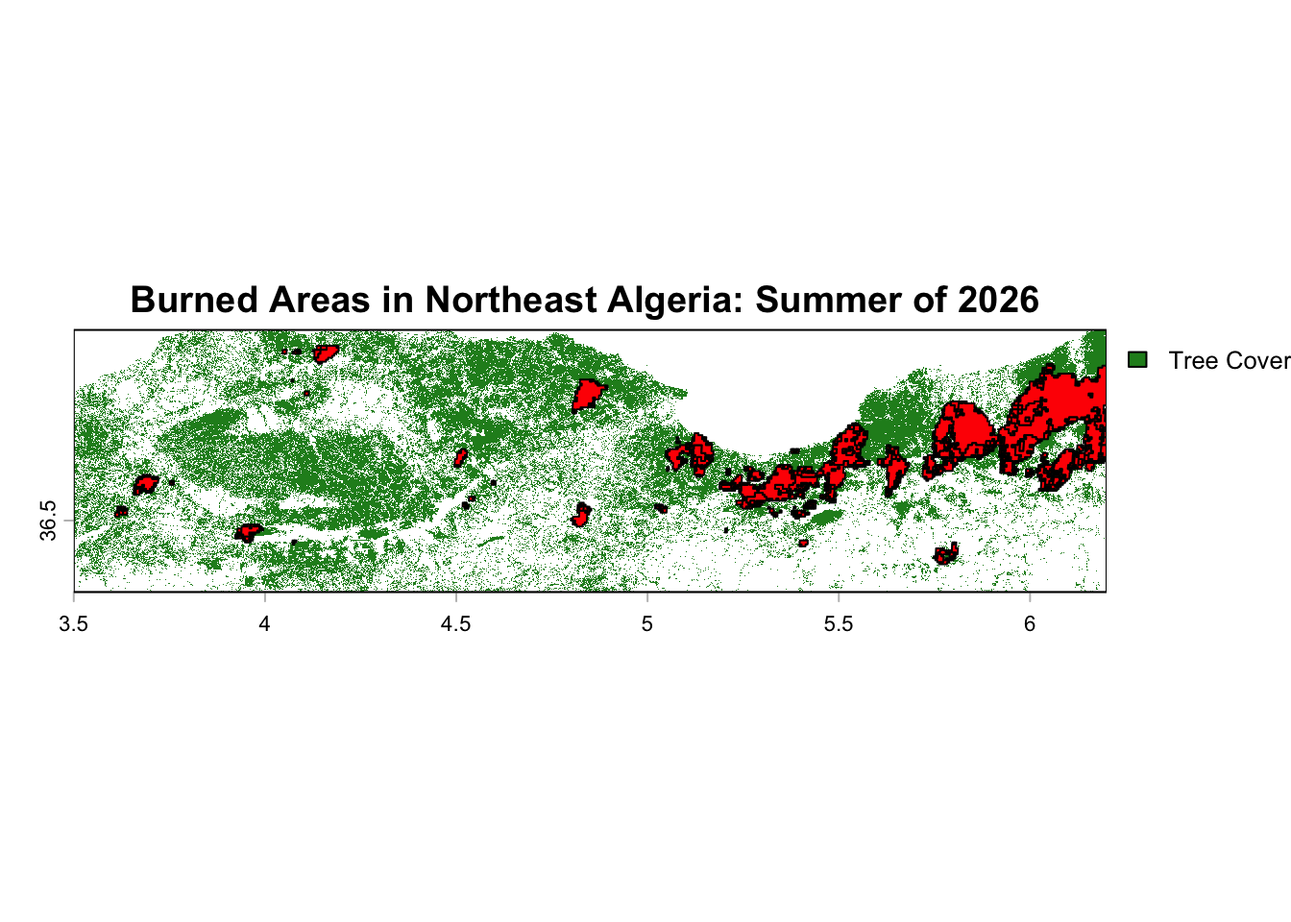
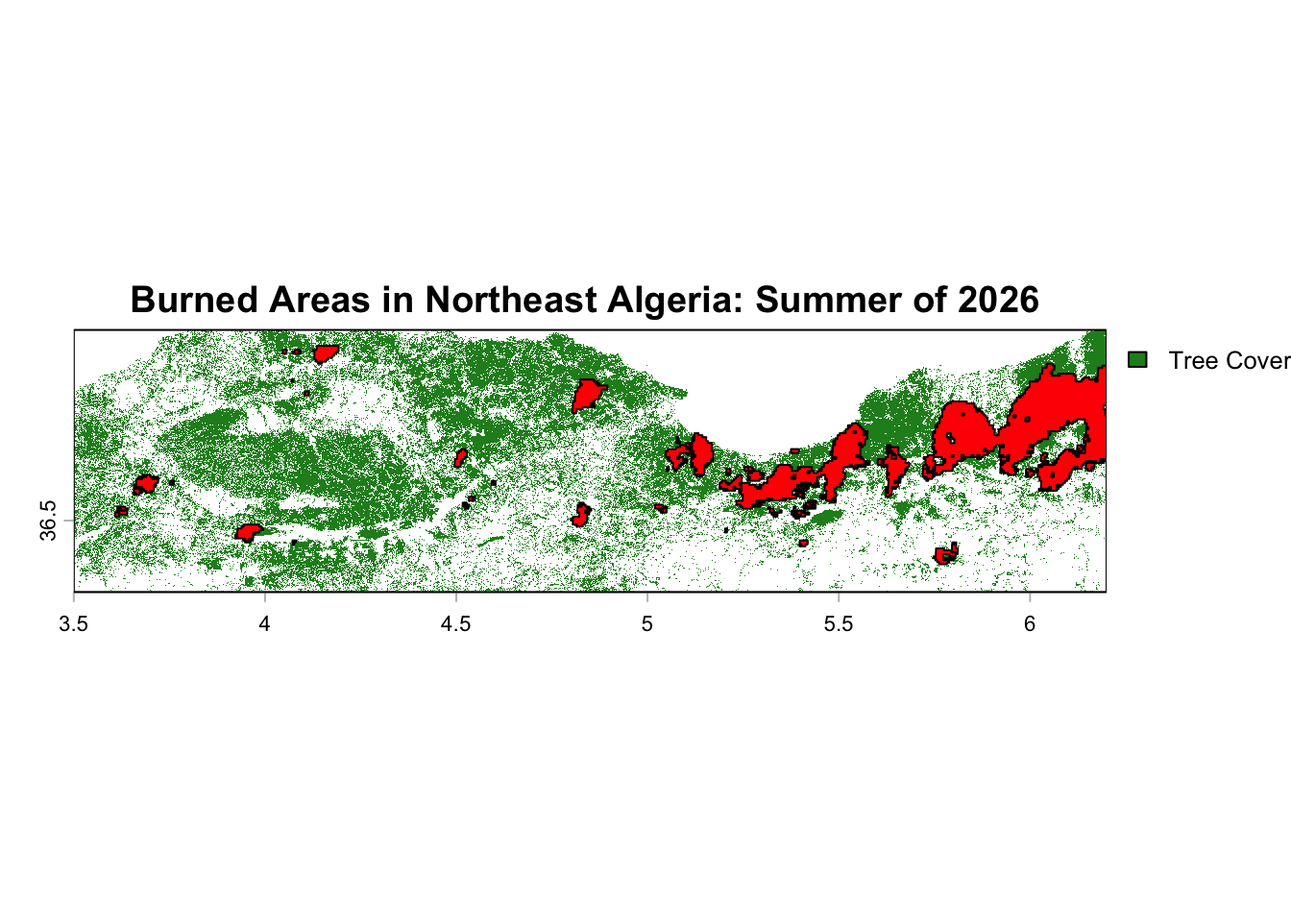
Built site for gh-pages

diff --git a/index.html b/index.html
@@ -305,23 +305,28 @@ pre > code.sourceCode > span > a:first-child::before { text-decoration: underlin
 <summary>Show Code</summary>
 <div class="code-copy-outer-scaffold"><div class="sourceCode cell-code" id="cb4"><pre class="sourceCode r code-with-copy"><code class="sourceCode r"><span id="cb4-1"><a href="#cb4-1" aria-hidden="true" tabindex="-1"></a><span class="co">#4. Download burned area dataset at desired extent </span></span>
 <span id="cb4-2"><a href="#cb4-2" aria-hidden="true" tabindex="-1"></a><span class="co">#The "Burned area" folder contains five files, they will need to be combined into a single sf for ploting. </span></span>
-<span id="cb4-3"><a href="#cb4-3" aria-hidden="true" tabindex="-1"></a>burn_files <span class="ot">&lt;-</span> <span class="fu">list.files</span>(<span class="st">"data/Burned_area"</span>, <span class="at">pattern =</span> <span class="st">"</span><span class="sc">\\</span><span class="st">.hdf$"</span>, <span class="at">full.names =</span> <span class="cn">TRUE</span>) </span>
-<span id="cb4-4"><a href="#cb4-4" aria-hidden="true" tabindex="-1"></a><span class="co"># 4.1 extract unique dates from burn_files ; MODIS date tags begin with A and follow the 4 digit year, 3 day date format ({7}), [0-9] matches any digit from 0 - 9 -&gt; the complete extraction code is thus "A[0-9]{7}"</span></span>
-<span id="cb4-5"><a href="#cb4-5" aria-hidden="true" tabindex="-1"></a>dates <span class="ot">&lt;-</span> <span class="fu">unique</span>(<span class="fu">regmatches</span>(<span class="fu">basename</span>(burn_files), <span class="fu">regexpr</span>(<span class="st">"A[0-9]{7}"</span>, <span class="fu">basename</span>(burn_files))))</span>
-<span id="cb4-6"><a href="#cb4-6" aria-hidden="true" tabindex="-1"></a><span class="co"># 4.2 loop through each file, open subdataset "1" (contains burn data), and store each raster in "burn_rasters" </span></span>
-<span id="cb4-7"><a href="#cb4-7" aria-hidden="true" tabindex="-1"></a>burn_rasters <span class="ot">&lt;-</span> <span class="fu">lapply</span>(burn_files, rast, <span class="at">subds =</span> <span class="dv">1</span>) </span>
-<span id="cb4-8"><a href="#cb4-8" aria-hidden="true" tabindex="-1"></a>burned_total <span class="ot">&lt;-</span> <span class="fu">app</span>(<span class="fu">rast</span>(burn_rasters), <span class="at">fun =</span> max, <span class="at">na.rm =</span> <span class="cn">TRUE</span>) <span class="co"># 4.3 combine layers into one raster </span></span>
-<span id="cb4-9"><a href="#cb4-9" aria-hidden="true" tabindex="-1"></a>burned_total[burned_total <span class="sc">&lt;=</span> <span class="dv">0</span>] <span class="ot">&lt;-</span> <span class="cn">NA</span> <span class="co"># 4.4 turn non-fire pixels into NA values </span></span>
-<span id="cb4-10"><a href="#cb4-10" aria-hidden="true" tabindex="-1"></a>burned_poly <span class="ot">&lt;-</span> <span class="fu">as.polygons</span>(burned_total, <span class="at">dissolve =</span> <span class="cn">TRUE</span>)<span class="co"># 4.7 convert burned_total to a polygon</span></span>
-<span id="cb4-11"><a href="#cb4-11" aria-hidden="true" tabindex="-1"></a>burned_sf <span class="ot">&lt;-</span> <span class="fu">st_as_sf</span>(burned_poly) <span class="sc">|&gt;</span> </span>
-<span id="cb4-12"><a href="#cb4-12" aria-hidden="true" tabindex="-1"></a>  <span class="fu">st_transform</span>(<span class="fu">st_crs</span>(boundbox_poly)) <span class="sc">|&gt;</span></span>
-<span id="cb4-13"><a href="#cb4-13" aria-hidden="true" tabindex="-1"></a>  <span class="fu">st_make_valid</span>() <span class="sc">|&gt;</span> </span>
-<span id="cb4-14"><a href="#cb4-14" aria-hidden="true" tabindex="-1"></a>  <span class="fu">st_intersection</span>(boundbox_poly) <span class="co"># 4.6 convert to sf file and crop to bounding box </span></span>
-<span id="cb4-15"><a href="#cb4-15" aria-hidden="true" tabindex="-1"></a></span>
-<span id="cb4-16"><a href="#cb4-16" aria-hidden="true" tabindex="-1"></a><span class="do">##== 4.7 run a test plot == ## </span></span>
-<span id="cb4-17"><a href="#cb4-17" aria-hidden="true" tabindex="-1"></a></span>
-<span id="cb4-18"><a href="#cb4-18" aria-hidden="true" tabindex="-1"></a><span class="fu">plot</span>(tree_cover, <span class="at">col=</span> <span class="st">"forestgreen"</span>, <span class="at">main =</span> <span class="st">"Burned Areas in Northeast Algeria: Summer of 2026 "</span>)</span>
-<span id="cb4-19"><a href="#cb4-19" aria-hidden="true" tabindex="-1"></a><span class="fu">plot</span>(<span class="fu">st_geometry</span>(burned_sf), <span class="at">pch =</span> <span class="dv">4</span>, <span class="at">col =</span> <span class="st">"red"</span>, <span class="at">cex =</span> <span class="fl">0.6</span>, <span class="at">add =</span> <span class="cn">TRUE</span>)</span></code></pre></div><button title="Copy to Clipboard" class="code-copy-button"><i class="bi"></i></button></div>
+<span id="cb4-3"><a href="#cb4-3" aria-hidden="true" tabindex="-1"></a>burn_files <span class="ot">&lt;-</span> <span class="fu">list.files</span>(<span class="st">"data/Burned_area"</span>, <span class="at">full.names =</span> <span class="cn">TRUE</span>) </span>
+<span id="cb4-4"><a href="#cb4-4" aria-hidden="true" tabindex="-1"></a><span class="co"># 4.1 extract unique dates from burn_files ; MODIS date tags begin with A and follow the 4 digit year, 3 day date format ({7}), [0-9] matches any digit from 0 - 9 -&gt; the complete extraction code is  "A[0-9]{7}"</span></span>
+<span id="cb4-5"><a href="#cb4-5" aria-hidden="true" tabindex="-1"></a>dates <span class="ot">&lt;-</span> <span class="fu">unique</span>(<span class="fu">str_extract</span>(<span class="fu">basename</span>(burn_files), <span class="st">"A[0-9]{7}"</span>))</span>
+<span id="cb4-6"><a href="#cb4-6" aria-hidden="true" tabindex="-1"></a><span class="co">#4.2 Load each file as a raster using map(), subds "1" contains burn files</span></span>
+<span id="cb4-7"><a href="#cb4-7" aria-hidden="true" tabindex="-1"></a>burn_rasters <span class="ot">&lt;-</span> <span class="fu">map</span>(burn_files, <span class="cf">function</span>(file) {</span>
+<span id="cb4-8"><a href="#cb4-8" aria-hidden="true" tabindex="-1"></a>  <span class="fu">rast</span>(file, <span class="at">subds =</span> <span class="dv">1</span>)</span>
+<span id="cb4-9"><a href="#cb4-9" aria-hidden="true" tabindex="-1"></a>})</span>
+<span id="cb4-10"><a href="#cb4-10" aria-hidden="true" tabindex="-1"></a>burn_mosaic <span class="ot">&lt;-</span> <span class="fu">reduce</span>(burn_rasters, mosaic) <span class="co"># 4.3 combine rasters using reduce</span></span>
+<span id="cb4-11"><a href="#cb4-11" aria-hidden="true" tabindex="-1"></a><span class="co"># 4.4 remove any none-fire pixels </span></span>
+<span id="cb4-12"><a href="#cb4-12" aria-hidden="true" tabindex="-1"></a>m <span class="ot">&lt;-</span> <span class="fu">matrix</span>(<span class="fu">c</span>(<span class="sc">-</span><span class="cn">Inf</span>, <span class="dv">0</span>, <span class="cn">NA</span>), <span class="at">nrow =</span> <span class="dv">1</span>) <span class="co"># 4.4.1 define a classification matrix, range from  -infinity to 0 as NA (e.g. missing data)</span></span>
+<span id="cb4-13"><a href="#cb4-13" aria-hidden="true" tabindex="-1"></a>burn_class <span class="ot">&lt;-</span> <span class="fu">classify</span>(burn_mosaic, m) <span class="co"># 4.4.2 check "m" with rule set by matrix </span></span>
+<span id="cb4-14"><a href="#cb4-14" aria-hidden="true" tabindex="-1"></a><span class="co"># 4.5 convert to sf for plotting </span></span>
+<span id="cb4-15"><a href="#cb4-15" aria-hidden="true" tabindex="-1"></a>burned_sf <span class="ot">&lt;-</span> <span class="fu">as.polygons</span>(burn_class, <span class="at">dissolve =</span> <span class="cn">TRUE</span>) <span class="sc">|&gt;</span>   </span>
+<span id="cb4-16"><a href="#cb4-16" aria-hidden="true" tabindex="-1"></a>  <span class="fu">st_as_sf</span>() <span class="sc">|&gt;</span>   </span>
+<span id="cb4-17"><a href="#cb4-17" aria-hidden="true" tabindex="-1"></a>  <span class="fu">st_transform</span>(<span class="fu">st_crs</span>(boundbox_poly)) <span class="sc">|&gt;</span>  </span>
+<span id="cb4-18"><a href="#cb4-18" aria-hidden="true" tabindex="-1"></a>  <span class="fu">st_make_valid</span>() <span class="sc">|&gt;</span>   </span>
+<span id="cb4-19"><a href="#cb4-19" aria-hidden="true" tabindex="-1"></a>  <span class="fu">st_intersection</span>(boundbox_poly)</span>
+<span id="cb4-20"><a href="#cb4-20" aria-hidden="true" tabindex="-1"></a></span>
+<span id="cb4-21"><a href="#cb4-21" aria-hidden="true" tabindex="-1"></a><span class="do">##== 4.6 run a test plot == ## </span></span>
+<span id="cb4-22"><a href="#cb4-22" aria-hidden="true" tabindex="-1"></a></span>
+<span id="cb4-23"><a href="#cb4-23" aria-hidden="true" tabindex="-1"></a><span class="fu">plot</span>(tree_cover, <span class="at">col=</span> <span class="st">"forestgreen"</span>, <span class="at">main =</span> <span class="st">"Burned Areas in Northeast Algeria: Summer of 2026 "</span>)</span>
+<span id="cb4-24"><a href="#cb4-24" aria-hidden="true" tabindex="-1"></a><span class="fu">plot</span>(<span class="fu">st_geometry</span>(burned_sf), <span class="at">pch =</span> <span class="dv">4</span>, <span class="at">col =</span> <span class="st">"red"</span>, <span class="at">cex =</span> <span class="fl">0.6</span>, <span class="at">add =</span> <span class="cn">TRUE</span>)</span></code></pre></div><button title="Copy to Clipboard" class="code-copy-button"><i class="bi"></i></button></div>
 </details>
 <div class="cell-output-display">
 <div>
@@ -471,7 +476,7 @@ pre > code.sourceCode > span > a:first-child::before { text-decoration: underlin
 <h2 class="anchored" data-anchor-id="section"></h2>
 </section>
 <section id="final-validation-with-species-occurrence-points" class="level2">
-<h2 class="anchored" data-anchor-id="final-validation-with-species-occurrence-points">5. Final validation with species occurrence points</h2>
+<h2 class="anchored" data-anchor-id="final-validation-with-species-occurrence-points">4. Final validation with species occurrence points</h2>
 <p>Notes: did not specify year when pulling occurrence data from GBIF, I’m going to try filtering to recent years first- if it does not return enough points for validation it may be better to cut species points out of the study rather then use outdated occurrences, but I have not decided yet.</p>
 </section>
 </section>
@@ -549,142 +554,46 @@ pre > code.sourceCode > span > a:first-child::before { text-decoration: underlin
 </div>
 </div>
 </div>
-<div class="cell">
-<details class="code-fold">
-<summary>Show Code</summary>
-<div class="code-copy-outer-scaffold"><div class="sourceCode cell-code" id="cb11"><pre class="sourceCode r code-with-copy"><code class="sourceCode r"><span id="cb11-1"><a href="#cb11-1" aria-hidden="true" tabindex="-1"></a><span class="co"># Optional: Add a bounding box or background land layer if available, </span></span>
-<span id="cb11-2"><a href="#cb11-2" aria-hidden="true" tabindex="-1"></a><span class="co"># or adjust coordinate scaling to fix the stretch.</span></span>
-<span id="cb11-3"><a href="#cb11-3" aria-hidden="true" tabindex="-1"></a></span>
-<span id="cb11-4"><a href="#cb11-4" aria-hidden="true" tabindex="-1"></a>map_map <span class="ot">&lt;-</span> <span class="fu">ggplot</span>() <span class="sc">+</span>  </span>
-<span id="cb11-5"><a href="#cb11-5" aria-hidden="true" tabindex="-1"></a>  <span class="co"># 1st layer: Tree cover (softer green, higher transparency)</span></span>
-<span id="cb11-6"><a href="#cb11-6" aria-hidden="true" tabindex="-1"></a>  <span class="fu">geom_sf</span>(<span class="at">data =</span> tree_cover_sf,  </span>
-<span id="cb11-7"><a href="#cb11-7" aria-hidden="true" tabindex="-1"></a>          <span class="fu">aes</span>(<span class="at">fill =</span> <span class="st">"Tree Cover"</span>),  </span>
-<span id="cb11-8"><a href="#cb11-8" aria-hidden="true" tabindex="-1"></a>          <span class="at">color =</span> <span class="st">"transparent"</span>,</span>
-<span id="cb11-9"><a href="#cb11-9" aria-hidden="true" tabindex="-1"></a>          <span class="at">alpha =</span> <span class="fl">0.4</span>) <span class="sc">+</span>  </span>
-<span id="cb11-10"><a href="#cb11-10" aria-hidden="true" tabindex="-1"></a>  </span>
-<span id="cb11-11"><a href="#cb11-11" aria-hidden="true" tabindex="-1"></a>  <span class="co"># 2nd layer: Macaque habitat range  </span></span>
-<span id="cb11-12"><a href="#cb11-12" aria-hidden="true" tabindex="-1"></a>  <span class="fu">geom_sf</span>(<span class="at">data =</span> habitat_sf,  </span>
-<span id="cb11-13"><a href="#cb11-13" aria-hidden="true" tabindex="-1"></a>          <span class="fu">aes</span>(<span class="at">fill =</span> <span class="st">"Suitable Macaque Habitat"</span>),  </span>
-<span id="cb11-14"><a href="#cb11-14" aria-hidden="true" tabindex="-1"></a>          <span class="at">color =</span> <span class="st">"transparent"</span>,</span>
-<span id="cb11-15"><a href="#cb11-15" aria-hidden="true" tabindex="-1"></a>          <span class="at">alpha =</span> <span class="fl">0.6</span>) <span class="sc">+</span>  </span>
-<span id="cb11-16"><a href="#cb11-16" aria-hidden="true" tabindex="-1"></a></span>
-<span id="cb11-17"><a href="#cb11-17" aria-hidden="true" tabindex="-1"></a>  <span class="co"># 3rd layer: Protected areas (professional amber/slate instead of bright gold)</span></span>
-<span id="cb11-18"><a href="#cb11-18" aria-hidden="true" tabindex="-1"></a>  <span class="fu">geom_sf</span>(<span class="at">data =</span> protected_areas,  </span>
-<span id="cb11-19"><a href="#cb11-19" aria-hidden="true" tabindex="-1"></a>          <span class="fu">aes</span>(<span class="at">fill =</span> <span class="st">"Protected Areas"</span>),  </span>
-<span id="cb11-20"><a href="#cb11-20" aria-hidden="true" tabindex="-1"></a>          <span class="at">color =</span> <span class="st">"#B8860B"</span>, <span class="co"># Darker goldenrod outline for definition</span></span>
-<span id="cb11-21"><a href="#cb11-21" aria-hidden="true" tabindex="-1"></a>          <span class="at">linewidth =</span> <span class="fl">0.3</span>,</span>
-<span id="cb11-22"><a href="#cb11-22" aria-hidden="true" tabindex="-1"></a>          <span class="at">alpha =</span> <span class="fl">0.5</span>) <span class="sc">+</span>  </span>
-<span id="cb11-23"><a href="#cb11-23" aria-hidden="true" tabindex="-1"></a></span>
-<span id="cb11-24"><a href="#cb11-24" aria-hidden="true" tabindex="-1"></a>  <span class="co"># 4th layer: Burned areas (cleaner crimson stripe pattern)</span></span>
-<span id="cb11-25"><a href="#cb11-25" aria-hidden="true" tabindex="-1"></a>  <span class="fu">geom_sf_pattern</span>(<span class="at">data =</span> burned_sf,  </span>
-<span id="cb11-26"><a href="#cb11-26" aria-hidden="true" tabindex="-1"></a>                  <span class="fu">aes</span>(<span class="at">fill =</span> <span class="st">"Burned Areas"</span>),  </span>
-<span id="cb11-27"><a href="#cb11-27" aria-hidden="true" tabindex="-1"></a>                  <span class="at">pattern =</span> <span class="st">"stripe"</span>,  </span>
-<span id="cb11-28"><a href="#cb11-28" aria-hidden="true" tabindex="-1"></a>                  <span class="at">pattern_color =</span> <span class="st">"#8B0000"</span>,  </span>
-<span id="cb11-29"><a href="#cb11-29" aria-hidden="true" tabindex="-1"></a>                  <span class="at">pattern_fill =</span> <span class="st">"#FF6347"</span>,  </span>
-<span id="cb11-30"><a href="#cb11-30" aria-hidden="true" tabindex="-1"></a>                  <span class="at">color =</span> <span class="st">"#8B0000"</span>,</span>
-<span id="cb11-31"><a href="#cb11-31" aria-hidden="true" tabindex="-1"></a>                  <span class="at">linewidth =</span> <span class="fl">0.2</span>,  </span>
-<span id="cb11-32"><a href="#cb11-32" aria-hidden="true" tabindex="-1"></a>                  <span class="at">pattern_spacing =</span> <span class="fl">0.03</span>,  </span>
-<span id="cb11-33"><a href="#cb11-33" aria-hidden="true" tabindex="-1"></a>                  <span class="at">pattern_size =</span> <span class="fl">0.1</span>) <span class="sc">+</span>  </span>
-<span id="cb11-34"><a href="#cb11-34" aria-hidden="true" tabindex="-1"></a></span>
-<span id="cb11-35"><a href="#cb11-35" aria-hidden="true" tabindex="-1"></a>  <span class="co"># Manual scales with cohesive, publication-ready colors</span></span>
-<span id="cb11-36"><a href="#cb11-36" aria-hidden="true" tabindex="-1"></a>  <span class="fu">scale_fill_manual</span>(</span>
-<span id="cb11-37"><a href="#cb11-37" aria-hidden="true" tabindex="-1"></a>    <span class="at">name =</span> <span class="st">"Legend"</span>,  </span>
-<span id="cb11-38"><a href="#cb11-38" aria-hidden="true" tabindex="-1"></a>    <span class="at">breaks =</span> <span class="fu">c</span>(<span class="st">"Tree Cover"</span>, <span class="st">"Suitable Macaque Habitat"</span>, <span class="st">"Protected Areas"</span>, <span class="st">"Burned Areas"</span>),</span>
-<span id="cb11-39"><a href="#cb11-39" aria-hidden="true" tabindex="-1"></a>    <span class="at">values =</span> <span class="fu">c</span>(</span>
-<span id="cb11-40"><a href="#cb11-40" aria-hidden="true" tabindex="-1"></a>      <span class="st">"Tree Cover"</span>              <span class="ot">=</span> <span class="st">"#2e8b57"</span>, <span class="co"># Sea green</span></span>
-<span id="cb11-41"><a href="#cb11-41" aria-hidden="true" tabindex="-1"></a>      <span class="st">"Suitable Macaque Habitat"</span> <span class="ot">=</span> <span class="st">"#1b4d3e"</span>, <span class="co"># Deep forest green</span></span>
-<span id="cb11-42"><a href="#cb11-42" aria-hidden="true" tabindex="-1"></a>      <span class="st">"Protected Areas"</span>         <span class="ot">=</span> <span class="st">"#e9c46a"</span>, <span class="co"># Muted professional gold/tan</span></span>
-<span id="cb11-43"><a href="#cb11-43" aria-hidden="true" tabindex="-1"></a>      <span class="st">"Burned Areas"</span>            <span class="ot">=</span> <span class="st">"transparent"</span></span>
-<span id="cb11-44"><a href="#cb11-44" aria-hidden="true" tabindex="-1"></a>    )</span>
-<span id="cb11-45"><a href="#cb11-45" aria-hidden="true" tabindex="-1"></a>  ) <span class="sc">+</span>  </span>
-<span id="cb11-46"><a href="#cb11-46" aria-hidden="true" tabindex="-1"></a></span>
-<span id="cb11-47"><a href="#cb11-47" aria-hidden="true" tabindex="-1"></a>  <span class="co"># Fix legend aesthetics so the pattern displays nicely</span></span>
-<span id="cb11-48"><a href="#cb11-48" aria-hidden="true" tabindex="-1"></a>  <span class="fu">guides</span>(<span class="at">fill =</span> <span class="fu">guide_legend</span>(</span>
-<span id="cb11-49"><a href="#cb11-49" aria-hidden="true" tabindex="-1"></a>    <span class="at">override.aes =</span> <span class="fu">list</span>(</span>
-<span id="cb11-50"><a href="#cb11-50" aria-hidden="true" tabindex="-1"></a>      <span class="at">pattern =</span> <span class="fu">c</span>(<span class="st">"none"</span>, <span class="st">"none"</span>, <span class="st">"none"</span>, <span class="st">"stripe"</span>),</span>
-<span id="cb11-51"><a href="#cb11-51" aria-hidden="true" tabindex="-1"></a>      <span class="at">pattern_color =</span> <span class="fu">c</span>(<span class="cn">NA</span>, <span class="cn">NA</span>, <span class="cn">NA</span>, <span class="st">"#8B0000"</span>),</span>
-<span id="cb11-52"><a href="#cb11-52" aria-hidden="true" tabindex="-1"></a>      <span class="at">pattern_fill =</span> <span class="fu">c</span>(<span class="cn">NA</span>, <span class="cn">NA</span>, <span class="cn">NA</span>, <span class="st">"#FF6347"</span>),</span>
-<span id="cb11-53"><a href="#cb11-53" aria-hidden="true" tabindex="-1"></a>      <span class="at">fill =</span> <span class="fu">c</span>(<span class="st">"#2e8b57"</span>, <span class="st">"#1b4d3e"</span>, <span class="st">"#e9c46a"</span>, <span class="st">"transparent"</span>),</span>
-<span id="cb11-54"><a href="#cb11-54" aria-hidden="true" tabindex="-1"></a>      <span class="at">color =</span> <span class="fu">c</span>(<span class="cn">NA</span>, <span class="cn">NA</span>, <span class="st">"#B8860B"</span>, <span class="st">"#8B0000"</span>)</span>
-<span id="cb11-55"><a href="#cb11-55" aria-hidden="true" tabindex="-1"></a>    ),</span>
-<span id="cb11-56"><a href="#cb11-56" aria-hidden="true" tabindex="-1"></a>    <span class="at">nrow =</span> <span class="dv">1</span> <span class="co"># Horizontal legend often looks cleaner at the bottom</span></span>
-<span id="cb11-57"><a href="#cb11-57" aria-hidden="true" tabindex="-1"></a>  )) <span class="sc">+</span></span>
-<span id="cb11-58"><a href="#cb11-58" aria-hidden="true" tabindex="-1"></a></span>
-<span id="cb11-59"><a href="#cb11-59" aria-hidden="true" tabindex="-1"></a>  <span class="fu">labs</span>( </span>
-<span id="cb11-60"><a href="#cb11-60" aria-hidden="true" tabindex="-1"></a>    <span class="at">title =</span> <span class="st">"Summer 2026 Fire Impact on Barbary Macaque Habitat"</span>,  </span>
-<span id="cb11-61"><a href="#cb11-61" aria-hidden="true" tabindex="-1"></a>    <span class="at">subtitle =</span> <span class="st">"Macaca sylvanus range along the northeast coastline of Algeria"</span>,  </span>
-<span id="cb11-62"><a href="#cb11-62" aria-hidden="true" tabindex="-1"></a>    <span class="at">x =</span> <span class="st">"Longitude"</span>,</span>
-<span id="cb11-63"><a href="#cb11-63" aria-hidden="true" tabindex="-1"></a>    <span class="at">y =</span> <span class="st">"Latitude"</span>,</span>
-<span id="cb11-64"><a href="#cb11-64" aria-hidden="true" tabindex="-1"></a>    <span class="at">caption =</span> <span class="st">"Source: Tree cover &amp; burn severity data (2026)"</span></span>
-<span id="cb11-65"><a href="#cb11-65" aria-hidden="true" tabindex="-1"></a>  ) <span class="sc">+</span>  </span>
-<span id="cb11-66"><a href="#cb11-66" aria-hidden="true" tabindex="-1"></a></span>
-<span id="cb11-67"><a href="#cb11-67" aria-hidden="true" tabindex="-1"></a>  <span class="co"># Professional theme adjustments</span></span>
-<span id="cb11-68"><a href="#cb11-68" aria-hidden="true" tabindex="-1"></a>  <span class="fu">theme_minimal</span>(<span class="at">base_size =</span> <span class="dv">11</span>) <span class="sc">+</span></span>
-<span id="cb11-69"><a href="#cb11-69" aria-hidden="true" tabindex="-1"></a>  <span class="fu">theme</span>(</span>
-<span id="cb11-70"><a href="#cb11-70" aria-hidden="true" tabindex="-1"></a>    <span class="at">plot.title =</span> <span class="fu">element_text</span>(<span class="at">face =</span> <span class="st">"bold"</span>, <span class="at">size =</span> <span class="dv">13</span>, <span class="at">hjust =</span> <span class="dv">0</span>),</span>
-<span id="cb11-71"><a href="#cb11-71" aria-hidden="true" tabindex="-1"></a>    <span class="at">plot.subtitle =</span> <span class="fu">element_text</span>(<span class="at">size =</span> <span class="dv">10</span>, <span class="at">color =</span> <span class="st">"grey30"</span>, <span class="at">hjust =</span> <span class="dv">0</span>),</span>
-<span id="cb11-72"><a href="#cb11-72" aria-hidden="true" tabindex="-1"></a>    <span class="at">panel.grid.major =</span> <span class="fu">element_line</span>(<span class="at">color =</span> <span class="st">"grey92"</span>, <span class="at">linewidth =</span> <span class="fl">0.5</span>),</span>
-<span id="cb11-73"><a href="#cb11-73" aria-hidden="true" tabindex="-1"></a>    <span class="at">panel.grid.minor =</span> <span class="fu">element_blank</span>(),</span>
-<span id="cb11-74"><a href="#cb11-74" aria-hidden="true" tabindex="-1"></a>    <span class="at">panel.background =</span> <span class="fu">element_rect</span>(<span class="at">fill =</span> <span class="st">"white"</span>, <span class="at">color =</span> <span class="cn">NA</span>),</span>
-<span id="cb11-75"><a href="#cb11-75" aria-hidden="true" tabindex="-1"></a>    <span class="at">plot.background =</span> <span class="fu">element_rect</span>(<span class="at">fill =</span> <span class="st">"white"</span>, <span class="at">color =</span> <span class="cn">NA</span>),</span>
-<span id="cb11-76"><a href="#cb11-76" aria-hidden="true" tabindex="-1"></a>    <span class="at">legend.position =</span> <span class="st">"bottom"</span>,</span>
-<span id="cb11-77"><a href="#cb11-77" aria-hidden="true" tabindex="-1"></a>    <span class="at">legend.title.position =</span> <span class="st">"top"</span>,</span>
-<span id="cb11-78"><a href="#cb11-78" aria-hidden="true" tabindex="-1"></a>    <span class="at">legend.title =</span> <span class="fu">element_text</span>(<span class="at">hjust =</span> <span class="fl">0.5</span>, <span class="at">face =</span> <span class="st">"bold"</span>),</span>
-<span id="cb11-79"><a href="#cb11-79" aria-hidden="true" tabindex="-1"></a>    <span class="at">legend.background =</span> <span class="fu">element_rect</span>(<span class="at">fill =</span> <span class="st">"grey98"</span>, <span class="at">color =</span> <span class="st">"grey85"</span>, <span class="at">linewidth =</span> <span class="fl">0.3</span>),</span>
-<span id="cb11-80"><a href="#cb11-80" aria-hidden="true" tabindex="-1"></a>    <span class="at">axis.title =</span> <span class="fu">element_text</span>(<span class="at">face =</span> <span class="st">"bold"</span>, <span class="at">size =</span> <span class="dv">10</span>)</span>
-<span id="cb11-81"><a href="#cb11-81" aria-hidden="true" tabindex="-1"></a>  ) <span class="sc">+</span></span>
-<span id="cb11-82"><a href="#cb11-82" aria-hidden="true" tabindex="-1"></a>  <span class="fu">coord_sf</span>(<span class="at">expand =</span> <span class="cn">FALSE</span>) <span class="co"># Keeps clean bounding box edges</span></span>
-<span id="cb11-83"><a href="#cb11-83" aria-hidden="true" tabindex="-1"></a></span>
-<span id="cb11-84"><a href="#cb11-84" aria-hidden="true" tabindex="-1"></a>map_map</span></code></pre></div><button title="Copy to Clipboard" class="code-copy-button"><i class="bi"></i></button></div>
-</details>
-<div class="cell-output-display">
-<div>
-<figure class="figure">
-<p><img src="index_files/figure-html/unnamed-chunk-10-1.png" class="img-fluid figure-img" width="672"></p>
-</figure>
-</div>
-</div>
-</div>
 </section>
 <section id="table" class="level3">
 <h3 class="anchored" data-anchor-id="table">2. Table</h3>
 <div class="cell" data-tbl-cap="Summer 2026 Fire Impact On Barbary Macaque (Macaca sylvanus) Habitat In Northeast Algeria" data-tbl-align="center">
 <details class="code-fold">
 <summary>Show Code</summary>
-<div class="code-copy-outer-scaffold"><div class="sourceCode cell-code" id="cb12"><pre class="sourceCode r code-with-copy"><code class="sourceCode r"><span id="cb12-1"><a href="#cb12-1" aria-hidden="true" tabindex="-1"></a><span class="co"># 1. Convert area calculations from m^2 to km^2</span></span>
-<span id="cb12-2"><a href="#cb12-2" aria-hidden="true" tabindex="-1"></a>total_hab_km <span class="ot">&lt;-</span> <span class="fu">sum</span>(<span class="fu">as.numeric</span>(hab_area)) <span class="sc">/</span> <span class="fl">1e6</span></span>
-<span id="cb12-3"><a href="#cb12-3" aria-hidden="true" tabindex="-1"></a>burned_hab_km <span class="ot">&lt;-</span> <span class="fu">sum</span>(<span class="fu">as.numeric</span>(burned_area<span class="sc">$</span>burned_area)) <span class="sc">/</span> <span class="fl">1e6</span></span>
-<span id="cb12-4"><a href="#cb12-4" aria-hidden="true" tabindex="-1"></a>protected_hab_km2 <span class="ot">&lt;-</span> <span class="fu">sum</span>(<span class="fu">as.numeric</span>(protected_hab_area<span class="sc">$</span>protected_hab_area)) <span class="sc">/</span> <span class="fl">1e6</span></span>
-<span id="cb12-5"><a href="#cb12-5" aria-hidden="true" tabindex="-1"></a>burned_protected_area_km2 <span class="ot">&lt;-</span> <span class="fu">sum</span>(<span class="fu">as.numeric</span>(burned_protected_area<span class="sc">$</span>burned_protected_area)) <span class="sc">/</span> <span class="fl">1e6</span></span>
-<span id="cb12-6"><a href="#cb12-6" aria-hidden="true" tabindex="-1"></a></span>
-<span id="cb12-7"><a href="#cb12-7" aria-hidden="true" tabindex="-1"></a><span class="co"># 1.1 find total unprotected habitat by subtracting protected from total </span></span>
-<span id="cb12-8"><a href="#cb12-8" aria-hidden="true" tabindex="-1"></a>unprotected_hab_km2 <span class="ot">&lt;-</span> total_hab_km <span class="sc">-</span> protected_hab_km2</span>
-<span id="cb12-9"><a href="#cb12-9" aria-hidden="true" tabindex="-1"></a>burned_unprotected_km2 <span class="ot">&lt;-</span> burned_hab_km <span class="sc">-</span> burned_protected_area_km2 <span class="co"># 1.1.2 find burned unprotected </span></span>
-<span id="cb12-10"><a href="#cb12-10" aria-hidden="true" tabindex="-1"></a>percent_burned_unprotected <span class="ot">&lt;-</span> (burned_unprotected_km2 <span class="sc">/</span> unprotected_hab_km2) <span class="sc">*</span> <span class="dv">100</span> <span class="co"># 1.1.3 percent unprotected habitat burned </span></span>
-<span id="cb12-11"><a href="#cb12-11" aria-hidden="true" tabindex="-1"></a></span>
-<span id="cb12-12"><a href="#cb12-12" aria-hidden="true" tabindex="-1"></a><span class="co"># 1.2 Create a data.frame to store calculations for the final table </span></span>
-<span id="cb12-13"><a href="#cb12-13" aria-hidden="true" tabindex="-1"></a>result_summary <span class="ot">&lt;-</span> <span class="fu">data.frame</span>( <span class="at">Category =</span> <span class="fu">c</span>(</span>
-<span id="cb12-14"><a href="#cb12-14" aria-hidden="true" tabindex="-1"></a>    <span class="st">"Total Suitable Macaque Habitat"</span>,</span>
-<span id="cb12-15"><a href="#cb12-15" aria-hidden="true" tabindex="-1"></a>    <span class="st">"Macaque Habitat Within Protected Areas"</span>,</span>
-<span id="cb12-16"><a href="#cb12-16" aria-hidden="true" tabindex="-1"></a>    <span class="st">"Macaque Habitat Outside Protected Areas"</span> ), <span class="co"># 1.2.3 define row lables </span></span>
-<span id="cb12-17"><a href="#cb12-17" aria-hidden="true" tabindex="-1"></a>    </span>
-<span id="cb12-18"><a href="#cb12-18" aria-hidden="true" tabindex="-1"></a>    <span class="at">Total_Area_km2=</span> <span class="fu">c</span>(total_hab_km, </span>
-<span id="cb12-19"><a href="#cb12-19" aria-hidden="true" tabindex="-1"></a>                      protected_hab_km2, </span>
-<span id="cb12-20"><a href="#cb12-20" aria-hidden="true" tabindex="-1"></a>                      unprotected_hab_km2), </span>
-<span id="cb12-21"><a href="#cb12-21" aria-hidden="true" tabindex="-1"></a>    <span class="at">Burned_Area_Km2 =</span> <span class="fu">c</span>(burned_hab_km, </span>
-<span id="cb12-22"><a href="#cb12-22" aria-hidden="true" tabindex="-1"></a>                        burned_protected_area_km2, </span>
-<span id="cb12-23"><a href="#cb12-23" aria-hidden="true" tabindex="-1"></a>                        burned_unprotected_km2), </span>
-<span id="cb12-24"><a href="#cb12-24" aria-hidden="true" tabindex="-1"></a>    <span class="at">Percent_Burned_land =</span> <span class="fu">c</span>(percent_burned, </span>
-<span id="cb12-25"><a href="#cb12-25" aria-hidden="true" tabindex="-1"></a>                            percent_burned_protected, </span>
-<span id="cb12-26"><a href="#cb12-26" aria-hidden="true" tabindex="-1"></a>                            percent_burned_unprotected)) <span class="co"># 1.2.4 define columns in order of appearance </span></span>
-<span id="cb12-27"><a href="#cb12-27" aria-hidden="true" tabindex="-1"></a></span>
-<span id="cb12-28"><a href="#cb12-28" aria-hidden="true" tabindex="-1"></a><span class="co"># 1.3 render table </span></span>
-<span id="cb12-29"><a href="#cb12-29" aria-hidden="true" tabindex="-1"></a>result_summary <span class="sc">|&gt;</span> knitr<span class="sc">::</span><span class="fu">kable</span>(</span>
-<span id="cb12-30"><a href="#cb12-30" aria-hidden="true" tabindex="-1"></a>  <span class="at">digits =</span> <span class="dv">2</span>,</span>
-<span id="cb12-31"><a href="#cb12-31" aria-hidden="true" tabindex="-1"></a>  <span class="at">col.names =</span> <span class="fu">c</span>(<span class="st">"Habitat Type"</span>,</span>
-<span id="cb12-32"><a href="#cb12-32" aria-hidden="true" tabindex="-1"></a>    <span class="st">"Total Area (Km2)"</span>,</span>
-<span id="cb12-33"><a href="#cb12-33" aria-hidden="true" tabindex="-1"></a>    <span class="st">"Burned Area (Km2)"</span>,</span>
-<span id="cb12-34"><a href="#cb12-34" aria-hidden="true" tabindex="-1"></a>    <span class="st">"Burned Area Percent"</span>))</span></code></pre></div><button title="Copy to Clipboard" class="code-copy-button"><i class="bi"></i></button></div>
+<div class="code-copy-outer-scaffold"><div class="sourceCode cell-code" id="cb11"><pre class="sourceCode r code-with-copy"><code class="sourceCode r"><span id="cb11-1"><a href="#cb11-1" aria-hidden="true" tabindex="-1"></a><span class="co"># 1. Convert area calculations from m^2 to km^2</span></span>
+<span id="cb11-2"><a href="#cb11-2" aria-hidden="true" tabindex="-1"></a>total_hab_km <span class="ot">&lt;-</span> <span class="fu">sum</span>(<span class="fu">as.numeric</span>(hab_area)) <span class="sc">/</span> <span class="fl">1e6</span></span>
+<span id="cb11-3"><a href="#cb11-3" aria-hidden="true" tabindex="-1"></a>burned_hab_km <span class="ot">&lt;-</span> <span class="fu">sum</span>(<span class="fu">as.numeric</span>(burned_area<span class="sc">$</span>burned_area)) <span class="sc">/</span> <span class="fl">1e6</span></span>
+<span id="cb11-4"><a href="#cb11-4" aria-hidden="true" tabindex="-1"></a>protected_hab_km2 <span class="ot">&lt;-</span> <span class="fu">sum</span>(<span class="fu">as.numeric</span>(protected_hab_area<span class="sc">$</span>protected_hab_area)) <span class="sc">/</span> <span class="fl">1e6</span></span>
+<span id="cb11-5"><a href="#cb11-5" aria-hidden="true" tabindex="-1"></a>burned_protected_area_km2 <span class="ot">&lt;-</span> <span class="fu">sum</span>(<span class="fu">as.numeric</span>(burned_protected_area<span class="sc">$</span>burned_protected_area)) <span class="sc">/</span> <span class="fl">1e6</span></span>
+<span id="cb11-6"><a href="#cb11-6" aria-hidden="true" tabindex="-1"></a></span>
+<span id="cb11-7"><a href="#cb11-7" aria-hidden="true" tabindex="-1"></a><span class="co"># 1.1 find total unprotected habitat by subtracting protected from total </span></span>
+<span id="cb11-8"><a href="#cb11-8" aria-hidden="true" tabindex="-1"></a>unprotected_hab_km2 <span class="ot">&lt;-</span> total_hab_km <span class="sc">-</span> protected_hab_km2</span>
+<span id="cb11-9"><a href="#cb11-9" aria-hidden="true" tabindex="-1"></a>burned_unprotected_km2 <span class="ot">&lt;-</span> burned_hab_km <span class="sc">-</span> burned_protected_area_km2 <span class="co"># 1.1.2 find burned unprotected </span></span>
+<span id="cb11-10"><a href="#cb11-10" aria-hidden="true" tabindex="-1"></a>percent_burned_unprotected <span class="ot">&lt;-</span> (burned_unprotected_km2 <span class="sc">/</span> unprotected_hab_km2) <span class="sc">*</span> <span class="dv">100</span> <span class="co"># 1.1.3 percent unprotected habitat burned </span></span>
+<span id="cb11-11"><a href="#cb11-11" aria-hidden="true" tabindex="-1"></a></span>
+<span id="cb11-12"><a href="#cb11-12" aria-hidden="true" tabindex="-1"></a><span class="co"># 1.2 Create a data.frame to store calculations for the final table </span></span>
+<span id="cb11-13"><a href="#cb11-13" aria-hidden="true" tabindex="-1"></a>result_summary <span class="ot">&lt;-</span> <span class="fu">data.frame</span>( <span class="at">Category =</span> <span class="fu">c</span>(</span>
+<span id="cb11-14"><a href="#cb11-14" aria-hidden="true" tabindex="-1"></a>    <span class="st">"Total Suitable Macaque Habitat"</span>,</span>
+<span id="cb11-15"><a href="#cb11-15" aria-hidden="true" tabindex="-1"></a>    <span class="st">"Macaque Habitat Within Protected Areas"</span>,</span>
+<span id="cb11-16"><a href="#cb11-16" aria-hidden="true" tabindex="-1"></a>    <span class="st">"Macaque Habitat Outside Protected Areas"</span> ), <span class="co"># 1.2.3 define row lables </span></span>
+<span id="cb11-17"><a href="#cb11-17" aria-hidden="true" tabindex="-1"></a>    </span>
+<span id="cb11-18"><a href="#cb11-18" aria-hidden="true" tabindex="-1"></a>    <span class="at">Total_Area_km2=</span> <span class="fu">c</span>(total_hab_km, </span>
+<span id="cb11-19"><a href="#cb11-19" aria-hidden="true" tabindex="-1"></a>                      protected_hab_km2, </span>
+<span id="cb11-20"><a href="#cb11-20" aria-hidden="true" tabindex="-1"></a>                      unprotected_hab_km2), </span>
+<span id="cb11-21"><a href="#cb11-21" aria-hidden="true" tabindex="-1"></a>    <span class="at">Burned_Area_Km2 =</span> <span class="fu">c</span>(burned_hab_km, </span>
+<span id="cb11-22"><a href="#cb11-22" aria-hidden="true" tabindex="-1"></a>                        burned_protected_area_km2, </span>
+<span id="cb11-23"><a href="#cb11-23" aria-hidden="true" tabindex="-1"></a>                        burned_unprotected_km2), </span>
+<span id="cb11-24"><a href="#cb11-24" aria-hidden="true" tabindex="-1"></a>    <span class="at">Percent_Burned_land =</span> <span class="fu">c</span>(percent_burned, </span>
+<span id="cb11-25"><a href="#cb11-25" aria-hidden="true" tabindex="-1"></a>                            percent_burned_protected, </span>
+<span id="cb11-26"><a href="#cb11-26" aria-hidden="true" tabindex="-1"></a>                            percent_burned_unprotected)) <span class="co"># 1.2.4 define columns in order of appearance </span></span>
+<span id="cb11-27"><a href="#cb11-27" aria-hidden="true" tabindex="-1"></a></span>
+<span id="cb11-28"><a href="#cb11-28" aria-hidden="true" tabindex="-1"></a><span class="co"># 1.3 render table </span></span>
+<span id="cb11-29"><a href="#cb11-29" aria-hidden="true" tabindex="-1"></a>result_summary <span class="sc">|&gt;</span> knitr<span class="sc">::</span><span class="fu">kable</span>(</span>
+<span id="cb11-30"><a href="#cb11-30" aria-hidden="true" tabindex="-1"></a>  <span class="at">digits =</span> <span class="dv">2</span>,</span>
+<span id="cb11-31"><a href="#cb11-31" aria-hidden="true" tabindex="-1"></a>  <span class="at">col.names =</span> <span class="fu">c</span>(<span class="st">"Habitat Type"</span>,</span>
+<span id="cb11-32"><a href="#cb11-32" aria-hidden="true" tabindex="-1"></a>    <span class="st">"Total Area (Km2)"</span>,</span>
+<span id="cb11-33"><a href="#cb11-33" aria-hidden="true" tabindex="-1"></a>    <span class="st">"Burned Area (Km2)"</span>,</span>
+<span id="cb11-34"><a href="#cb11-34" aria-hidden="true" tabindex="-1"></a>    <span class="st">"Burned Area Percent"</span>))</span></code></pre></div><button title="Copy to Clipboard" class="code-copy-button"><i class="bi"></i></button></div>
 </details>
 <div class="cell-output-display">
 <table class="caption-top table table-sm table-striped small">
